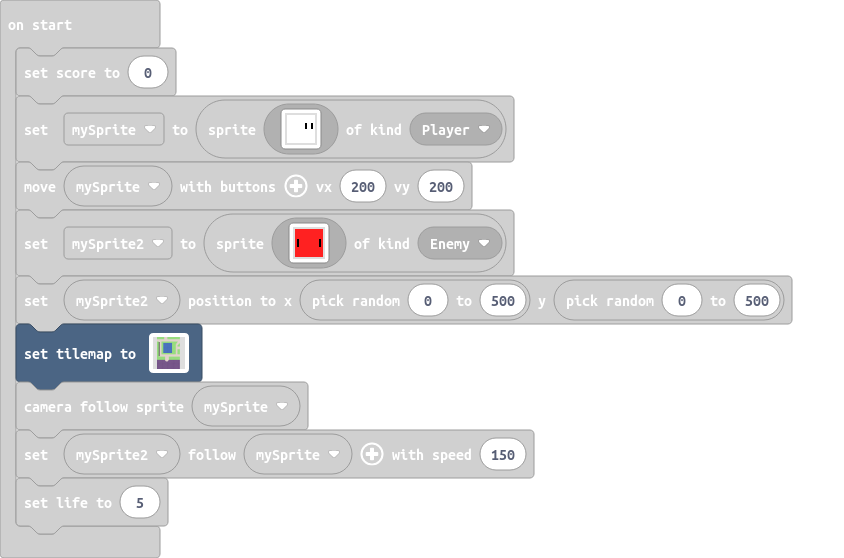
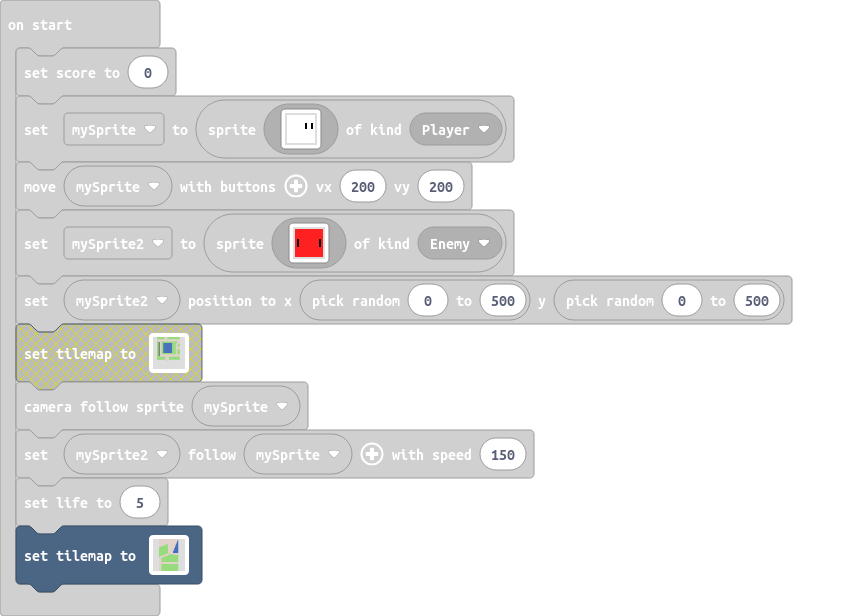
Welcome to presale 1! ktcp-3: Tilemap are working... But fixed :)

Changed region(s): [[0.0, 0.0305, 0.955, 0.9749]]

diff --git a/main.ts b/main.ts
@@ -204,81 +204,61 @@ mySprite2 = sprites.create(img`
     . . . . . . . . . . . . . . . . 
     `, SpriteKind.Enemy)
 mySprite2.setPosition(randint(0, 500), randint(0, 500))
[1 lines of base64/hex data omitted]
-    . . . . . . . . . . . . . . . . . . . . . . . . . . . . . . . . . . . . . . . . . . . . . . . . . . 
-    . . . . . . . . . . . . . . . . . . . . . . . . . . . . . . . . . . . . . . . . . . . . . . . . . . 
-    . . . . . . . . . . . . . . . . . . . . . . . . . . . . . . . . . . . . . . . . . . . . . . . . . . 
-    . . . . . . . . . . . . . . . . . . . . . . . . . . . . . . . . . . . . . . . . . . . . . . . . . . 
-    . . . . . . . . . . . . . . . . . . . . . . . . . . . . . . . . . . . . . . . . . . . . . . . . . . 
-    . . . . . . . . . . . . . . . . . . . . . . . . . . . . . . . . . . . . . . . . . . . . . . . . . . 
-    . . . . . . . . . . . . . . . . . . . . . . . . . . . . . . . . . . . . . . . . . . . . . . . . . . 
-    . . . . . . . . . . . . . . . . . . . . . . . . . . . . . . . . . . . . . . . . . . . . . . . . . . 
-    . . . . . . . . . . . . . . . . . . . . . . . . . . . . . . . . . . . . . . . . . . . . . . . . . . 
-    . . . . . . . . . . . . . . . . . . . . . . . . . . . . . . . . . . . . . . . . . . . . . . . . . . 
-    . . . . . . . . . . . . . . . . . . . . . . . . . . . . . . . . . . . . . . . . . . . . . 2 . . . . 
-    . . . . . . . . . . . . . . . . . . . . . . . . . . . . . . . . . . . . . . . . . . . . 2 . . . . . 
-    . . . . . . . . . . . . . . . . . . . . . . . . . . . . . . . . . . . . . . . . . . . . 2 . . . . . 
-    . . . . . . . . . . . . . . 2 2 2 2 2 2 2 2 2 2 2 2 2 2 2 2 2 2 2 . . . . . . . . . . 2 . . . . . . 
-    . . . . . . . . . . . . . . 2 2 2 2 2 2 2 2 2 2 2 2 2 2 2 2 2 2 2 . . . . . . . . . 2 . . . . . . . 
-    . . . . . . . . . . . . . . 2 2 2 2 2 2 2 2 2 2 2 2 2 2 2 2 2 2 2 . . . . . . . . . 2 . . . . . . . 
-    . . . . . . . . . . . . . . 2 2 2 2 2 2 2 2 2 2 2 2 2 2 2 2 2 2 2 . . . . . . . . 2 . . . . . . . . 
-    . . . . . . . . . . . . . . 2 2 2 2 2 2 2 2 2 2 2 2 2 2 2 2 2 2 2 . . . . . . . . 2 . . . . . . . . 
-    . . . . . . . . . . . . . . 2 2 2 2 2 2 2 2 2 2 2 2 2 2 2 2 2 2 2 . . . . . . . . 2 . . . . . . . . 
-    . . . . . . . . . . . . . . 2 2 2 2 2 2 2 2 2 2 2 2 2 2 2 2 2 2 2 . . . . . . . . 2 . . . . . . . . 
-    . . . . . . . . . . . . . . 2 2 2 2 2 2 2 2 2 2 2 2 2 2 2 2 2 2 2 . . . . . . . . 2 . . . . . . . . 
-    . . . . . . . . . . . . . . 2 2 2 2 2 2 2 2 2 2 2 2 2 2 2 2 2 2 2 . . . . . . . . 2 . . . . . . . . 
-    . . . . . . . . . . . . . . 2 2 2 2 2 2 2 2 2 2 2 2 2 2 2 2 2 2 2 . . . . . . . . 2 . . . . . . . . 
-    . . . . . . . . . . . . . . 2 2 2 2 2 2 2 2 2 2 2 2 2 2 2 2 2 2 2 . . . . . . . . 2 . . . . . . . . 
-    . . . . . . . . . . . . . . 2 2 2 2 2 2 2 2 2 2 2 2 2 2 2 2 2 2 2 . . . . . . . . 2 . . . . . . . . 
-    . . . . . . . . . . . . . . 2 2 2 2 2 2 2 2 2 2 2 2 2 2 2 2 2 2 2 . . . . . . . . 2 . . . . . . . . 
-    . . . . . . . . . . . . . . 2 2 2 2 2 2 2 2 2 2 2 2 2 2 2 2 2 2 2 . . . . . . . . 2 . . . . . . . . 
-    . . . . . . . . . . . . . . 2 2 2 2 2 2 2 2 2 2 2 2 2 2 2 2 2 2 2 . . . . . . . . 2 . . . . . . . . 
-    . . . . . . . . . . . . . . 2 2 2 2 2 2 2 2 2 2 2 2 2 2 2 2 2 2 2 . . . . . . . . 2 . . . . . . . . 
-    . . . . . . . . . . . . . . 2 2 2 2 2 2 2 2 2 2 2 2 2 2 2 2 2 2 2 . . . . . . . . 2 . . . . . . . . 
-    . . . . . . . . . . . . . . 2 2 2 2 2 2 2 2 2 2 2 2 2 2 2 2 2 2 2 . . . . . . . . 2 . . . . . . . . 
-    . . . . . . . . . . . . . . 2 2 2 2 2 2 2 2 2 2 2 2 2 2 2 2 2 2 2 . . . . . . . . 2 . . . . . . . . 
-    . . . . . . . . . . . . . . 2 2 2 2 2 2 2 2 2 2 2 2 2 2 2 2 2 2 2 . . . . . . . . 2 . . . . . . . . 
-    . . . . . . . . . . . . . . 2 2 2 2 2 2 2 2 2 2 2 2 2 2 2 2 2 2 2 . . . . . . . . 2 . . . . . . . . 
-    . . . . . . . . . . . . . . 2 2 2 2 2 2 2 2 2 2 2 2 2 2 2 2 2 2 2 . . . . . . . . 2 . . . . . . . . 
-    . . . . . . . . . . . . . . . . . . . . . . . . . . . . . . . . . . . . . . . . . 2 . . . . . . . . 
-    . . . . . . . . . . . . . . . . . . . . . . . . . . . . . . . . . . . . . . . . . 2 . . . . . . . . 
-    . . . . . . . . . . . . . . . . . . . . . . . . . . . . . . . . . . . . . . . . . 2 . . . . . . . . 
-    . . . . . . . . . . . . . . . . . . . . . . . . . . . . . . . . . . . . . . . . . . . . . . . . . . 
-    . . . . . . . . . . . . . . . . . . . . . . . . . . . . . . . . . . . . . . . . . . . . . . . . . . 
-    . . . . . . . . . . . . . . . . . . . . . . . . . . . . . . . . . . . . . . . . . . . . . . . . . . 
-    . . . . . . . . . . . . . . . . . . . . . . . . . . . . . . . . . . . . . . . . . . . . . . . . . . 
-    . . . . . . . . . . . . . . . . . . . . . . . . . . . . . . . . . . . . . . . . . . . . . . . . . . 
-    . . . . . . . . . . . . . . . . . . . . . . . . . . . . . . . . . . . . . . . . . . . . . . . . . . 
-    . . . . . . . . . . . . . . . . . . . . . . . . . . . . . . . . . . . . . . . . . . . . . . . . . . 
-    . . . . . . . . . . . . . . . . . . . . . . . . . . . . . . . . . . . . . . . . . . . . . . . . . . 
-    . . . . . . . . . . . . . . . . . . . . . . . . . . . . . . . . . . . . . . . . . . . . . . . . . . 
-    . . . . . . . . . . . . . . . . . . . . . . . . . . . . . . . . . . . . . . . . . . . . . . . . . . 
-    . . . . . . . . . . . . . . . . . . . . . . . . . . . . . . . . . . . . . . . . . . . . . . . . . . 
-    . . . . . . . . . . . . . . . . . . . . . . . . . . . . . . . . . . . . . . . . . . . . . . . . . . 
-    . . . . . . . . . . . . . . . . . . . . . . . . . . . . . . . . . . . . . . . . . . . . . . . . . . 
-    . . . . . . . . . . . . . . . . . . . . . . . . . . . . . . . . . . . . . . . . . . . . . . . . . . 
-    . . . . . . . . . . . . . . . . . . . . . . . . . . . . . . . . . . . . . . . . . . . . . . . . . . 
-    . . . . . . . . . . . . . . . . . . . . . . . . . . . . . . . . . . . . . . . . . . . . . . . . . . 
-    . . . . . . . . . . . . . . . . . . . . . . . . . . . . . . . . . . . . . . . . . . . . . . . . . . 
-    . . . . . . . . . . . . . . . . . . . . . . . . . . . . . . . . . . . . . . . . . . . . . . . . . . 
-    . . . . . . . . . . . . . . . . . . . . . . . . . . . . . . . . . . . . . . . . . . . . . . . . . . 
-    . . . . . . . . . . . . . . . . . . . . . . . . . . . . . . . . . . . . . . . . . . . . . . . . . . 
-    . . . . . . . . . . . . . . . . . . . . . . . . . . . . . . . . . . . . . . . . . . . . . . . . . . 
-    . . . . . . . . . . . . . . . . . . . . . . . . . . . . . . . . . . . . . . . . . . . . . . . . . . 
-    . . . . . . . . . . . . . . . . . . . . . . . . . . . . . . . . . . . . . . . . . . . . . . . . . . 
-    . . . . . . . . . . . . . . . . . . . . . . . . . . . . . . . . . . . . . . . . . . . . . . . . . . 
-    . . . . . . . . . . . . . . . . . . . . . . . . . . . . . . . . . . . . . . . . . . . . . . . . . . 
-    . . . . . . . . . . . . . . . . . . . . . . . . . . . . . . . . . . . . . . . . . . . . . . . . . . 
-    . . . . . . . . . . . . . . . . . . . . . . . . . . . . . . . . . . . . . . . . . . . . . . . . . . 
-    . . . . . . . . . . . . . . . . . . . . . . . . . . . . . . . . . . . . . . . . . . . . . . . . . . 
-    . . . . . . . . . . . . . . . . . . . . . . . . . . . . . . . . . . . . . . . . . . . . . . . . . . 
-    . . . . . . . . . . . . . . . . . . . . . . . . . . . . . . . . . . . . . . . . . . . . . . . . . . 
-    . . . . . . . . . . . . . . . . . . . . . . . . . . . . . . . . . . . . . . . . . . . . . . . . . . 
-    . . . . . . . . . . . . . . . . . . . . . . . . . . . . . . . . . . . . . . . . . . . . . . . . . . 
-    `, [myTiles.transparency16,myTiles.tile1,myTiles.tile2,myTiles.tile3,myTiles.tile5,myTiles.tile6,myTiles.tile4,myTiles.tile7,myTiles.tile8,myTiles.tile9,myTiles.tile10], TileScale.Sixteen))
 scene.cameraFollowSprite(mySprite)
 mySprite2.follow(mySprite, 150)
 info.setLife(5)
[1 lines of base64/hex data omitted]
+    . . . . . . . . . . . . . . . . . . . . . . . . . . . . . . 
+    . . . . . . . . . . . . . . . . . . . . . . . . . . . . . . 
+    . . . . . . . . . . . . . . . . . . . . . . . . . . . . . 2 
+    . . . . . . . . . . . . . . . . . . . . . . . . . . . . . 2 
+    . . . . . . . . . . . . . . . . . . . . . . . . . . . . 2 2 
+    . . . . . . . . . . . . . . . . . . . . . . . . . . . . 2 2 
+    . . . . . . . . . . . . . . . . . . . . . . . . . . . . 2 2 
+    . . . . . . . . . . . . . . . . . . . . . . . . . . . 2 2 2 
+    . . . . . . . . . . . . . . . . . . . . . . . . . . . 2 2 2 
+    . . . . . . . . . . . . . . . . . . . . . . . . . . 2 2 2 2 
+    . . . . . . . . . . . . . . . . . . . . . . . . . . 2 2 2 2 
+    . . . . . . . . . . . . . . . . . . . . . . . . . . 2 2 2 2 
+    . . . . . . . . . . . . . . . . . . . . . . . . . 2 2 2 2 2 
+    . . . . . . . . . . . . . . . . . . . . . . . . . 2 2 2 2 2 
+    . . . . . . . . . . . . . . . . . . . . . . . . 2 2 2 2 2 2 
+    . . . . . . . . . . . . . . . . . . . . . . . . 2 2 2 2 2 2 
+    . . . . . . . . . . . . . . . . . . . . . . . . 2 2 2 2 2 2 
+    . . . . . . . . . . . . . . . . . . . . . . . 2 2 2 2 2 2 2 
+    . . . . . . . . . . . . . . . . . . . . . . . 2 2 2 2 2 2 2 
+    . . . . . . . . . . . . . . . . . . . . . . 2 2 2 2 2 2 2 2 
+    . . . . . . . . . . . . . . . . . . . . . . 2 2 2 2 2 2 2 2 
+    . . . . . . . . . . . . . . . . . . . . . . 2 2 2 2 2 2 2 2 
+    . . . . . . . . . . . . . . . . . . . . . . . . . . . . . . 
+    . . . . . . . . . . . . . . . . . . . . . . . . . . . . . . 
+    . . . . . . . . . . . . . . . . . . . . . . . . . . . . . . 
+    . . . . . . . . . . . . . . . . . . . . . . . . . . . . . . 
+    . . . . . . . . . . . . . . . . . . . . . . . . . . . . . . 
+    . . . . . . . . . . . . . . . . . . . . . . . . . . . . . . 
+    . . . . . . . . . . . . . . . . . . . . . . . . . . . . . . 
+    . . . . . . . . . . . . . . . . . . . . . . . . . . . . . . 
+    . . . . . . . . . . . . . . . . . . . . . . . . . . . . . . 
+    . . . . . . . . . . . . . . . . . . . . . . . . . . . . . . 
+    . . . . . . . . . . . . . . . . . . . . . . . . . . . . . . 
+    . . . . . . . . . . . . . . . . . . . . . . . . . . . . . . 
+    . . . . . . . . . . . . . . . . . . . . . . . . . . . . . . 
+    . . . . . . . . . . . . . . . . . . . . . . . . . . . . . . 
+    . . . . . . . . . . . . . . . . . . . . . . . . . . . . . . 
+    . . . . . . . . . . . . . . . . . . . . . . . . . . . . . . 
+    . . . . . . . . . . . . . . . . . . . . . . . . . . . . . . 
+    . . . . . . . . . . . . . . . . . . . . . . . . . . . . . . 
+    . . . . . . . . . . . . . . . . . . . . . . . . . . . . . . 
+    . . . . . . . . . . . . . . . . . . . . . . . . . . . . . . 
+    . . . . . . . . . . . . . . . . . . . . . . . . . . . . . . 
+    . . . . . . . . . . . . . . . . . . . . . . . . . . . . . . 
+    . . . . . . . . . . . . . . . . . . . . . . . . . . . . . . 
+    . . . . . . . . . . . . . . . . . . . . . . . . . . . . . . 
+    . . . . . . . . . . . . . . . . . . . . . . . . . . . . . . 
+    . . . . . . . . . . . . . . . . . . . . . . . . . . . . . . 
+    . . . . . . . . . . . . . . . . . . . . . . . . . . . . . . 
+    . . . . . . . . . . . . . . . . . . . . . . . . . . . . . . 
+    `, [myTiles.transparency16,myTiles.tile1,myTiles.tile2,myTiles.tile3], TileScale.Sixteen))
 forever(function () {
     pause(1000)
     info.changeScoreBy(1)
